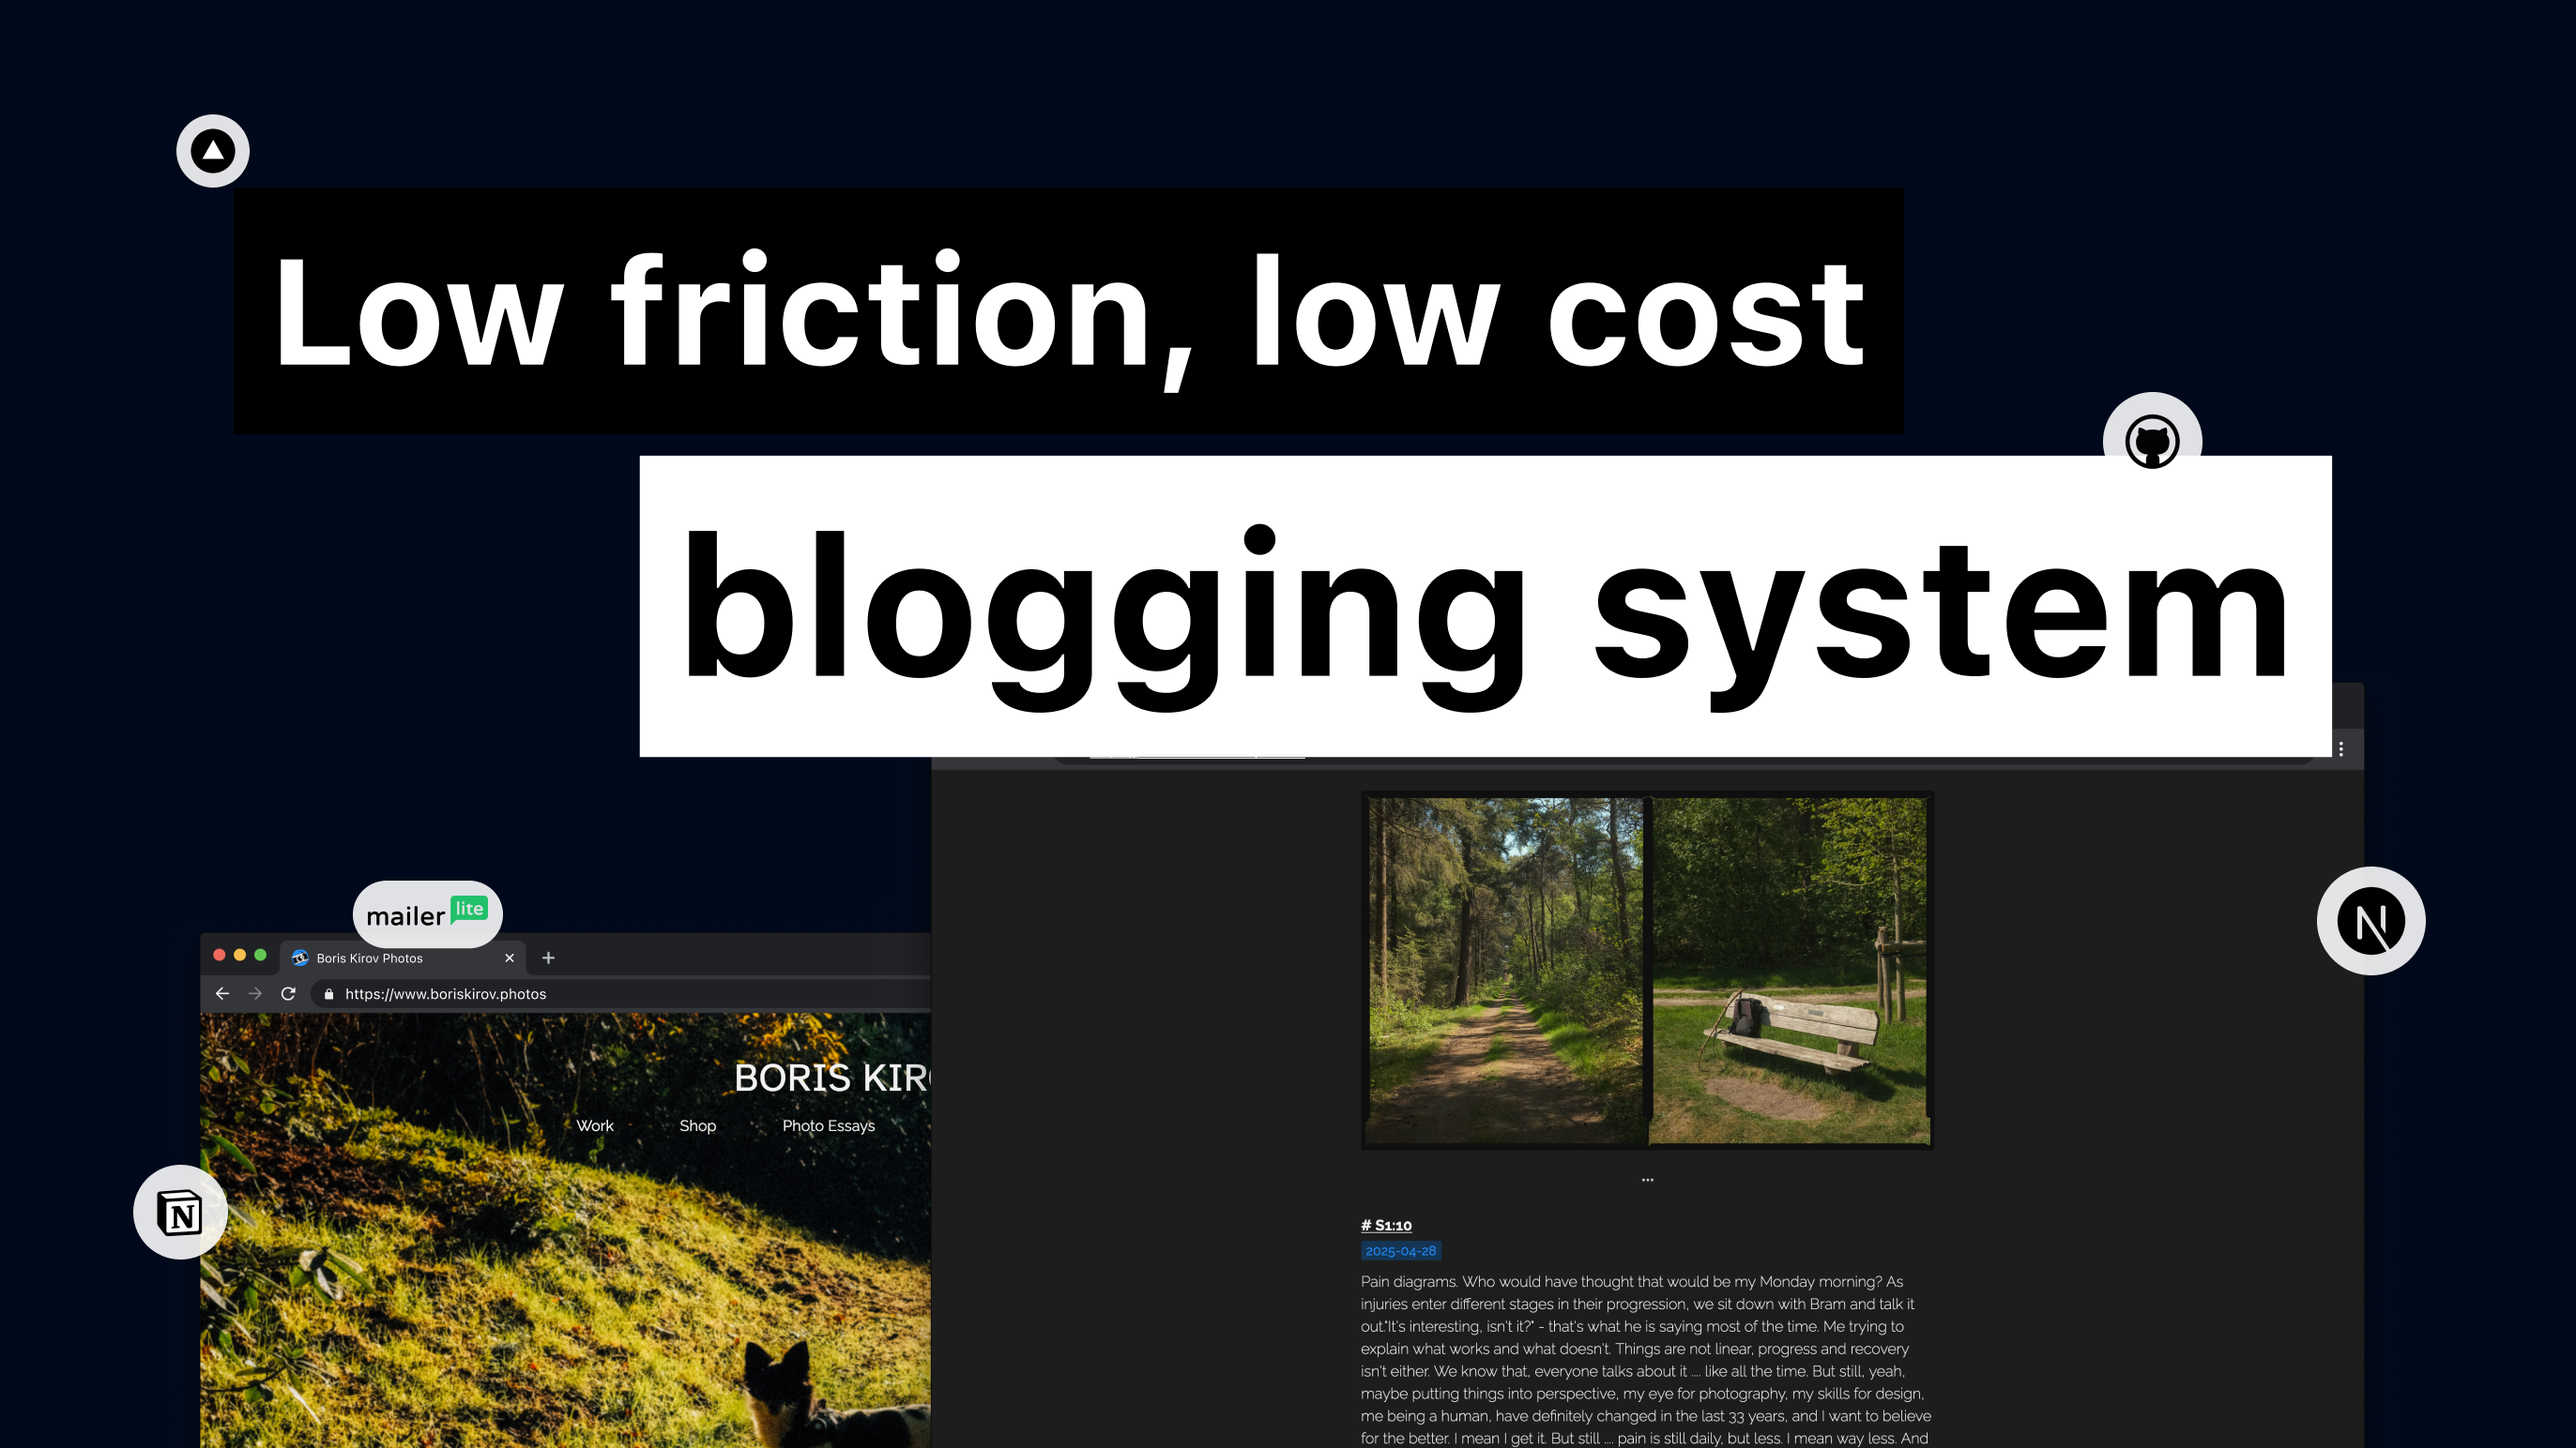
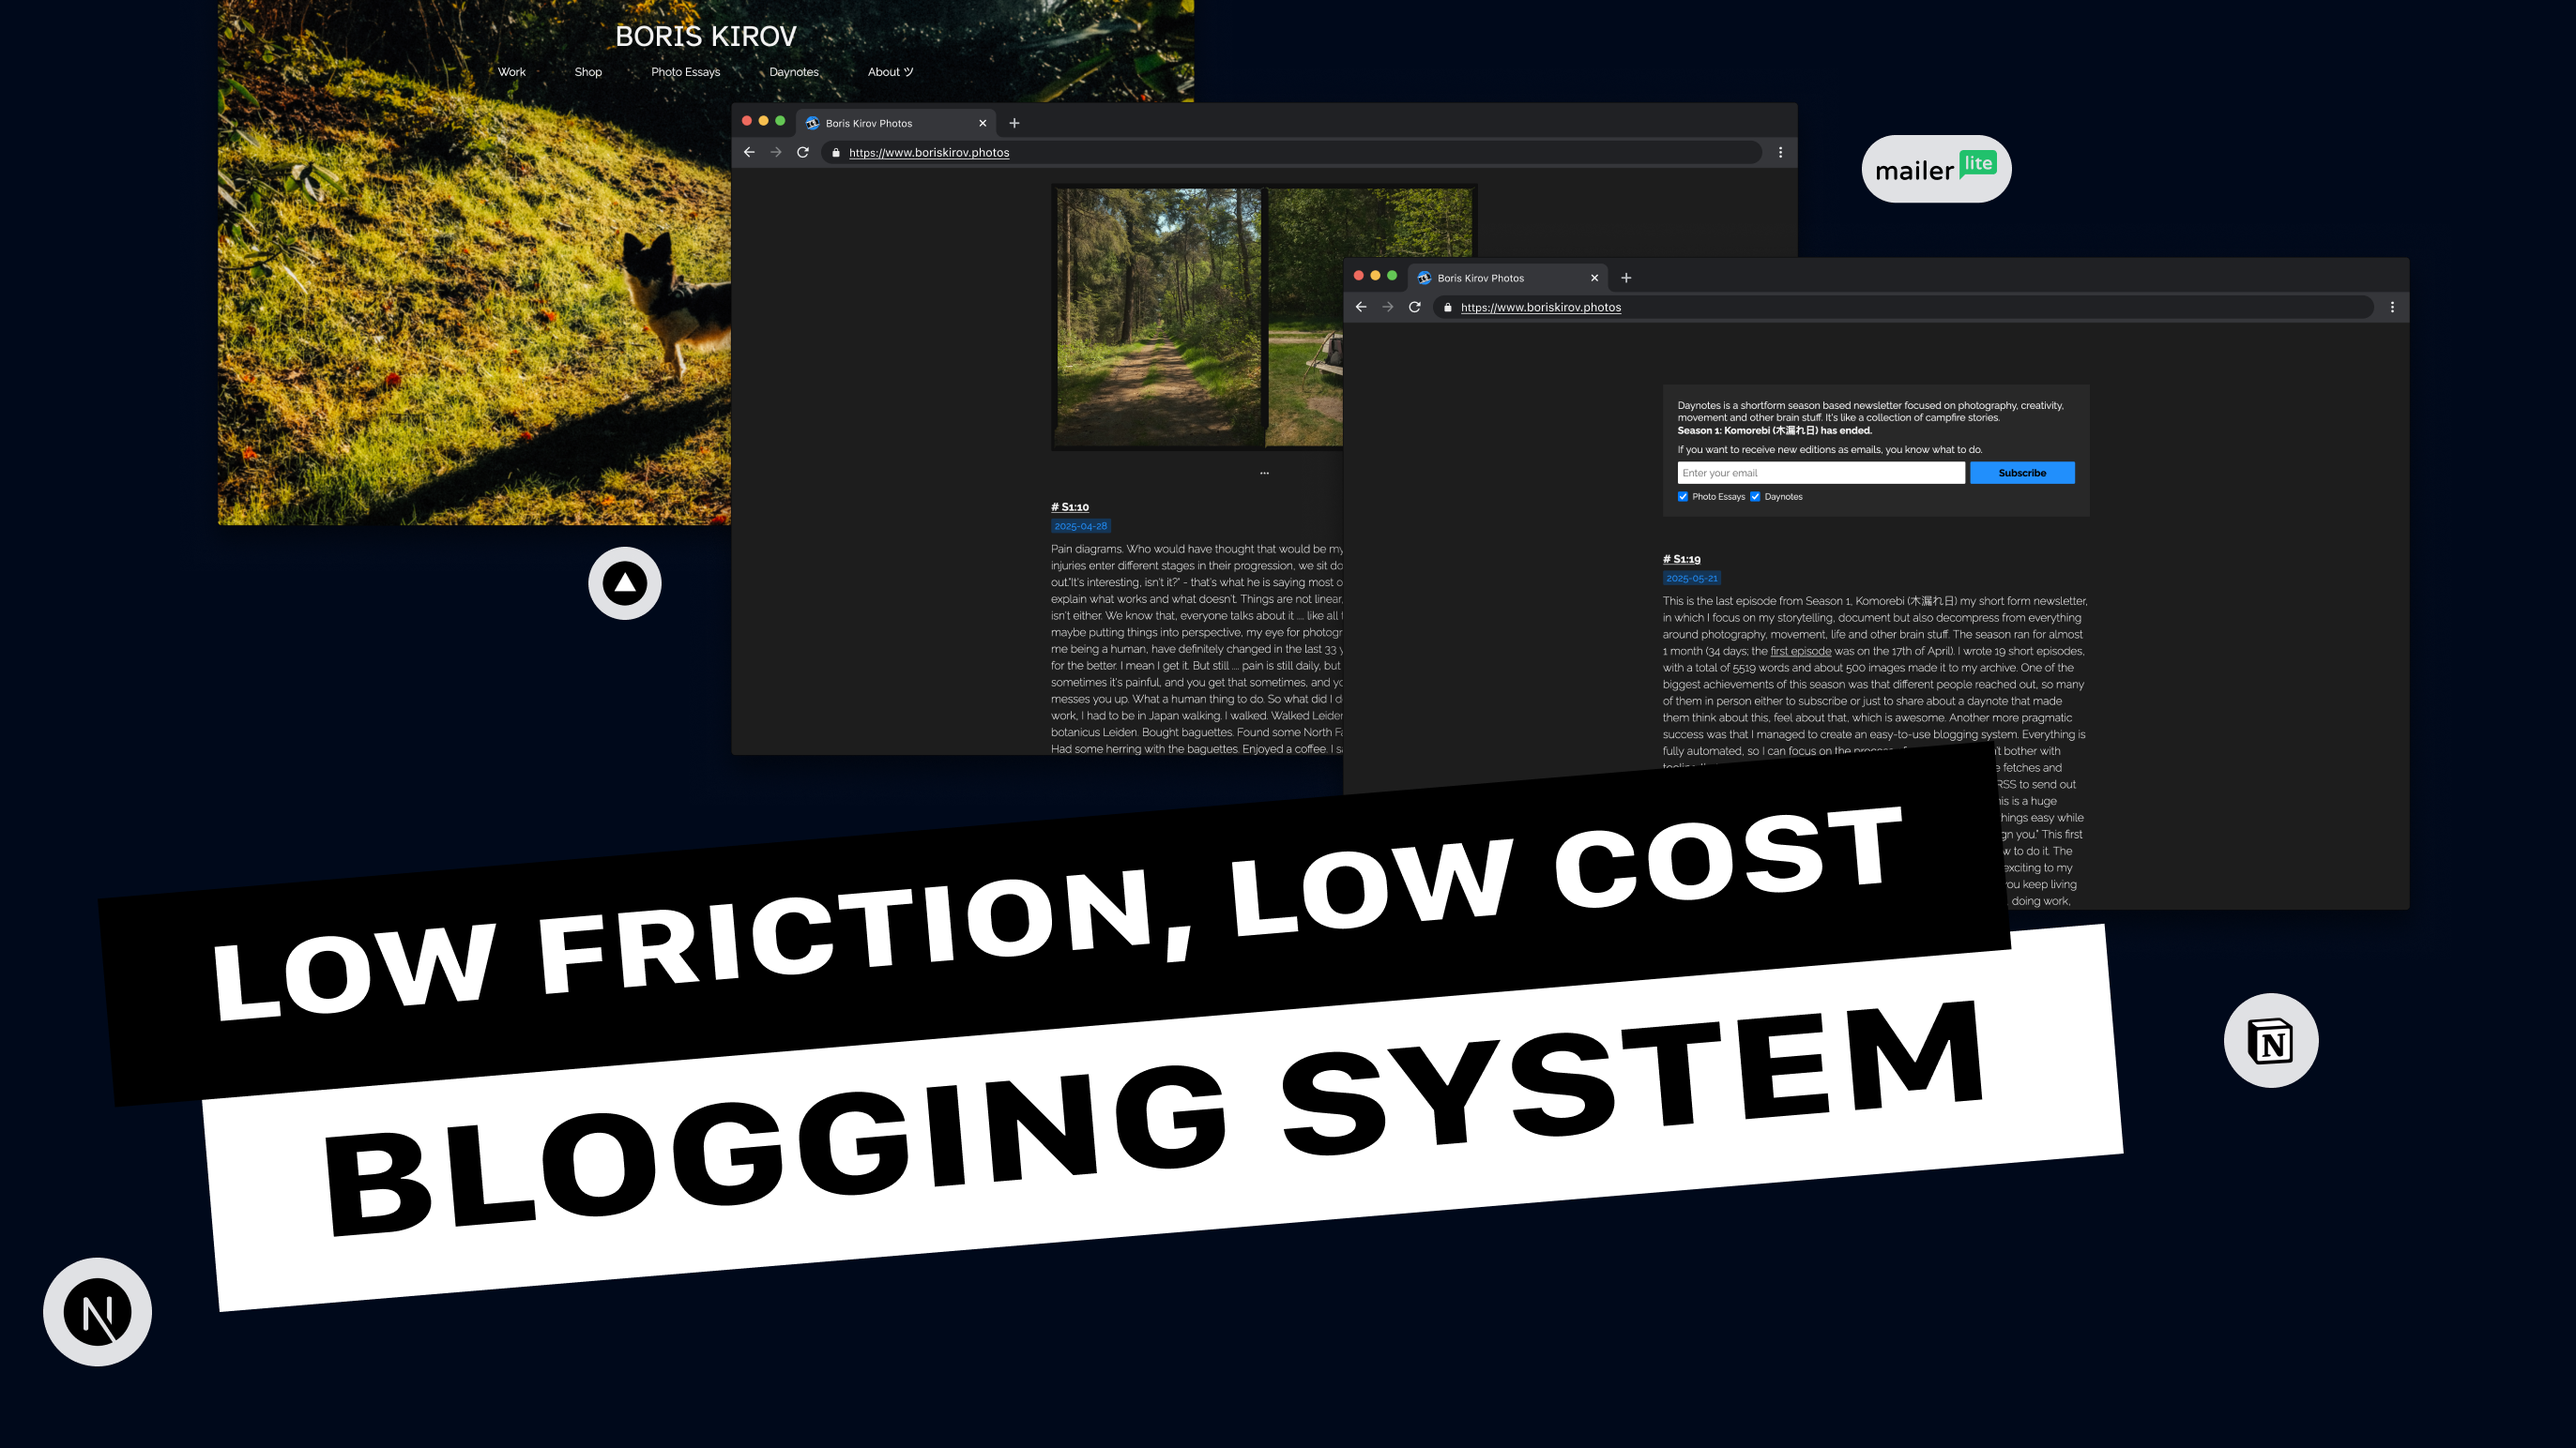
metadata fix

diff --git a/components/metadata.js b/components/metadata.js
@@ -1,6 +1,10 @@
 import Head from "next/head";
+import { useRouter } from "next/router";
 
 const Metadata = ({ title, description, image, name }) => {
+  const router = useRouter();
+  const url = `https://www.boriskirov.me${router.asPath}`;
+
   return (
     <Head>
       {/* Primary Meta Tags */}
@@ -16,17 +20,14 @@ const Metadata = ({ title, description, image, name }) => {
         content="currentColor"
         media="(prefers-color-scheme: dark)"
       />
+
       {/* Open Graph */}
       <meta property="og:type" content="website" />
-      <meta name="og:title" property="og:title" content={title} />
-      <meta
-        name="og:description"
-        property="og:description"
-        content={description}
-      />
+      <meta property="og:title" content={title} />
+      <meta property="og:description" content={description} />
       <meta property="og:site_name" content="Boris Kirov - Product designer" />
-      <meta property="og:url" content="https://www.boriskirov.me" />
-      <meta name="image" property="og:image" content={image} />
+      <meta property="og:url" content={url} />
+      <meta property="og:image" content={image} />
 
       {/* Twitter */}
       <meta name="twitter:card" content="summary_large_image" />
@@ -34,8 +35,9 @@ const Metadata = ({ title, description, image, name }) => {
       <meta name="twitter:title" content={title} />
       <meta name="twitter:description" content={description} />
       <meta name="twitter:creator" content="@sboriskirov" />
-      <meta name="twitter:image:src" content={image} />
+      <meta name="twitter:image" content={image} />
     </Head>
   );
 };
+
 export default Metadata;
